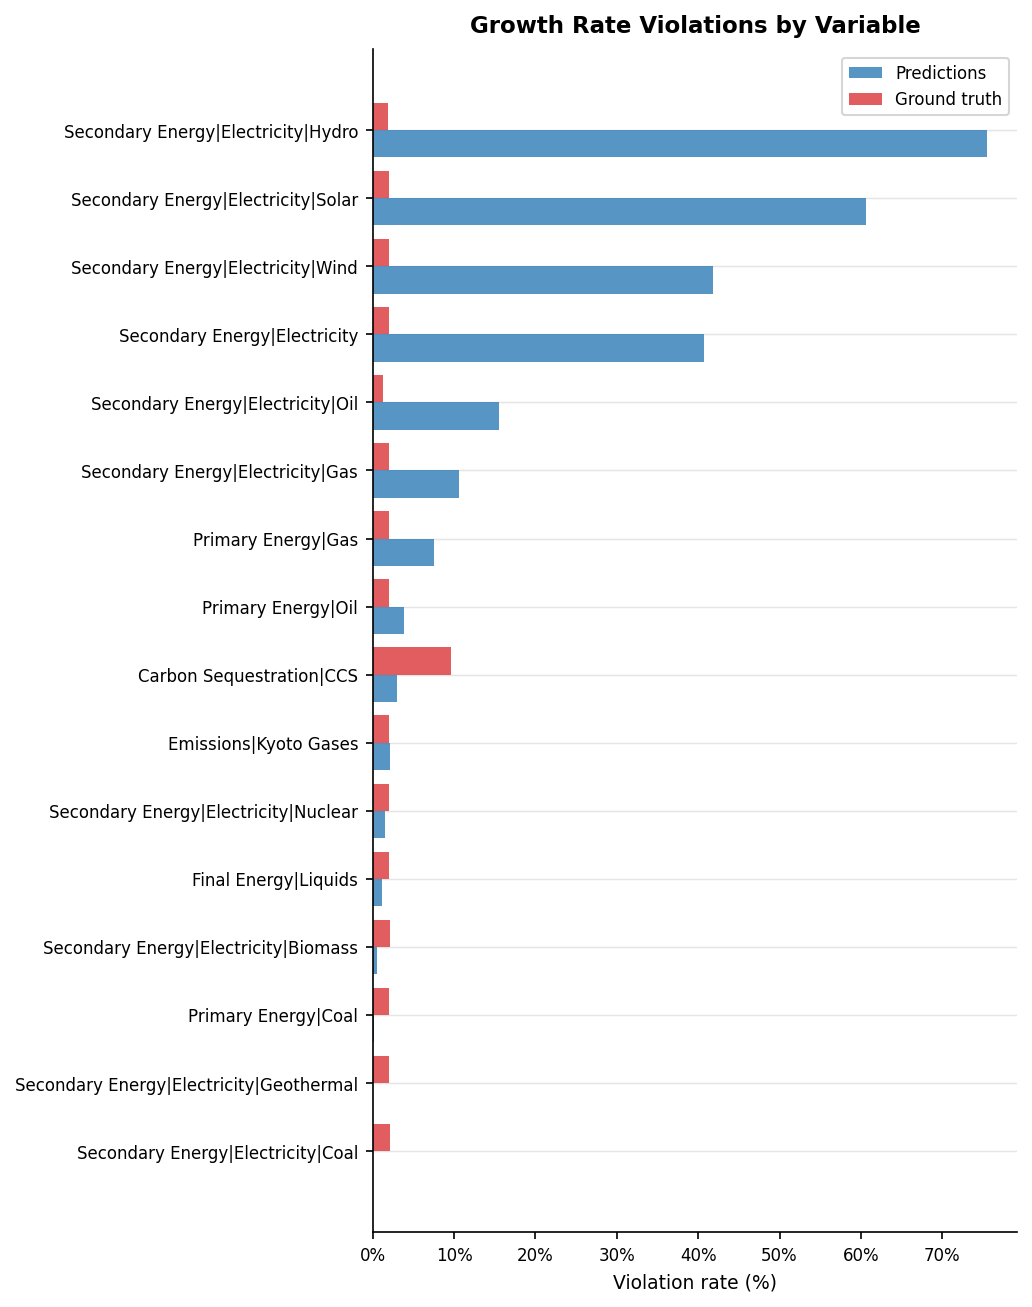
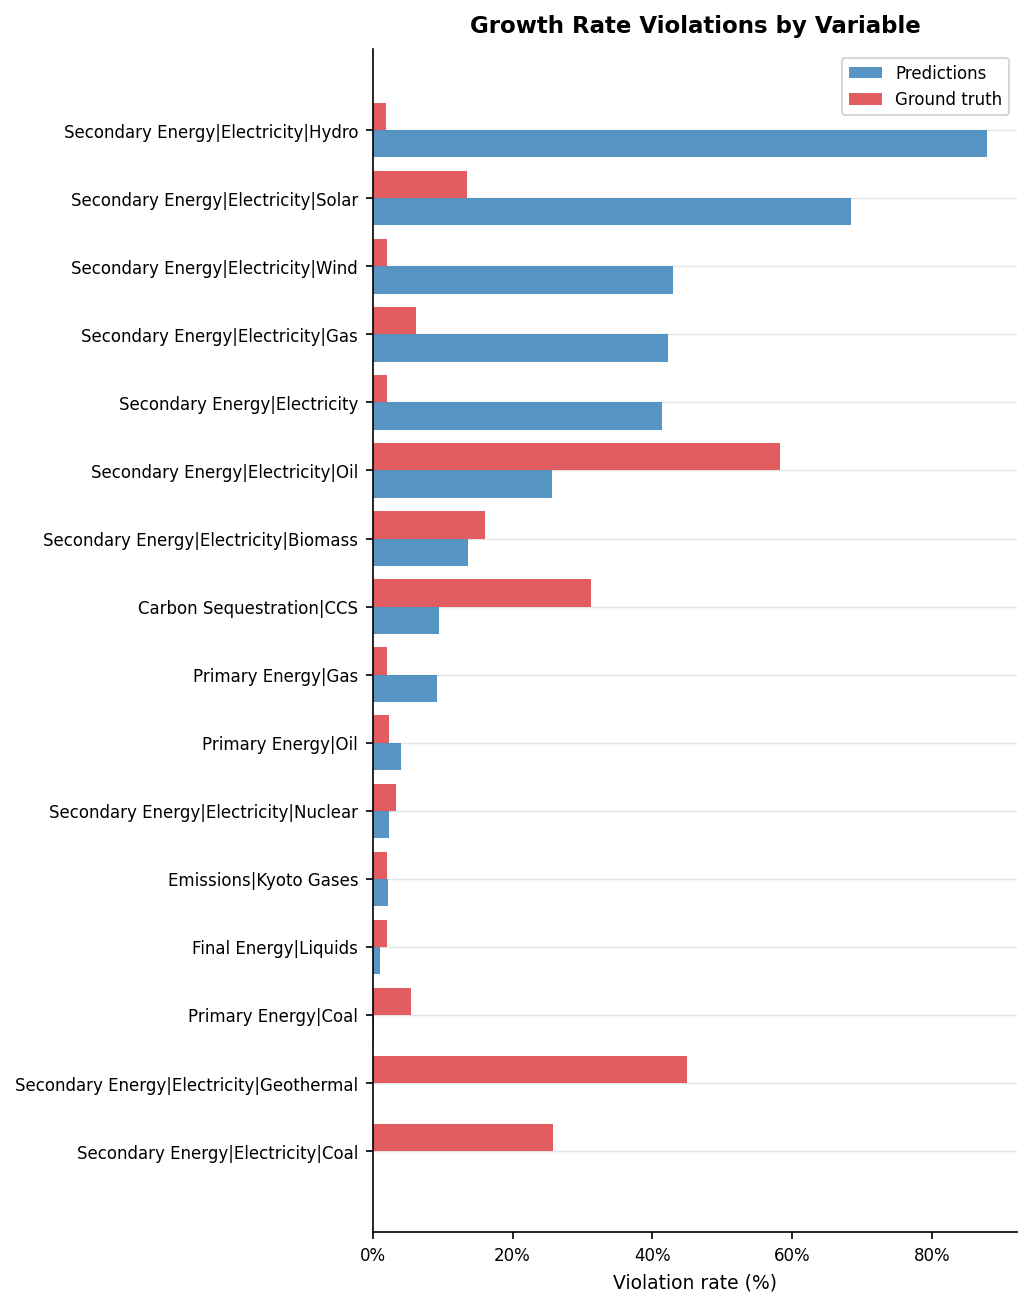
fixing issue of variables having near 0 values and exploding relative comparisons

diff --git a/make_val_report.py b/make_val_report.py
@@ -98,7 +98,15 @@ def _adapt_sum_results(df: pd.DataFrame, threshold: float = 0.012) -> tuple:
     if df is None or df.empty:
         return None, None
     df = df.copy()
-    df["abs_error"] = (df["Residual"] / df["Parent_Value"].abs()).fillna(0)
+    # Rows where |parent| < abs_floor are excluded from the mean (set to NaN),
+    # matching the old behaviour — dividing by a near-zero denominator produces
+    # meaningless huge relative errors.
+    abs_floor = 1.0
+    df["abs_error"] = np.where(
+        df["Parent_Value"].abs() < abs_floor,
+        np.nan,
+        df["Residual"] / df["Parent_Value"].abs(),
+    )
     df["passed_timestep"] = df["Status"] == "PASS"
     df["parent_variable"] = df["Parent"]
     df["total"] = df["Parent_Value"]
@@ -153,8 +161,17 @@ def _adapt_regional(df: pd.DataFrame):
     if df is None or df.empty:
         return None
     df = df.copy()
+    # Exclude SKIP rows (World near zero) and near-zero World values from
+    # relative error calculations — dividing by a near-zero denominator produces
+    # meaningless huge percentages (e.g. CO2 crossing zero in net-zero scenarios).
+    abs_floor = 1.0
+    df = df[df["Status"] != "SKIP"].copy()
     df["passed"] = df["Status"] == "PASS"
-    df["rel_error"] = (df["Residual"] / df["World_Value"].abs()).fillna(0)
+    df["rel_error"] = np.where(
+        df["World_Value"].abs() < abs_floor,
+        np.nan,
+        df["Residual"] / df["World_Value"].abs(),
+    )
     df["grouping"] = df["Grouping"]
     IDX = ["Model", "Scenario", "Region", "Scenario_Category"]
     sc = (

diff --git a/checks/check_plausibility.py b/checks/check_plausibility.py
@@ -42,11 +42,18 @@ def compute_growth_rates(long: pd.DataFrame) -> pd.DataFrame:
     # Drop first row of each group (no previous value)
     df = df.dropna(subset=["prev_value", "prev_year"])
 
-    # Compute growth rate
-    df["Growth_Rate"] = (df["Value"] - df["prev_value"]) / df["prev_value"].abs()
-    # Where denominator is zero, set to inf (flagged as violation)
-    df.loc[df["prev_value"] == 0, "Growth_Rate"] = np.where(
-        df.loc[df["prev_value"] == 0, "Value"] != 0, np.inf, 0.0
+    # Compute growth rate.
+    # Where |prev_value| < abs_floor the denominator is too small for a meaningful
+    # relative rate — set to NaN so the transition is excluded from both bound
+    # derivation and violation flagging.  This avoids spurious 10,000x+ growth
+    # rates from variables that start near zero (e.g. CCS, Geothermal, Oil in
+    # early years).  The == 0 case is a subset of this.
+    abs_floor = 1.0
+    near_zero = df["prev_value"].abs() < abs_floor
+    df["Growth_Rate"] = np.where(
+        near_zero,
+        np.nan,
+        (df["Value"] - df["prev_value"]) / df["prev_value"].abs(),
     )
 
     return df[IDX + ["Variable", "prev_year", "Year", "Growth_Rate"]].rename(

diff --git a/checks/regional_consistency.py b/checks/regional_consistency.py
@@ -64,11 +64,24 @@ def check_grouping(
     if not present_regions:
         return pd.DataFrame()
 
+    # Only check rows where ALL regions in the grouping have data.
+    # Partial sums (missing regions treated as 0) produce meaningless relative errors.
+    complete = pivot[present_regions].notna().all(axis=1)
+    pivot = pivot[complete].copy()
+    if pivot.empty:
+        return pd.DataFrame()
+
     pivot["regional_sum"] = pivot[present_regions].sum(axis=1)
     pivot["world_value"]  = pivot["World"]
     pivot["residual"]     = (pivot["world_value"] - pivot["regional_sum"]).abs()
+    # Also skip rows where |World| < abs_floor — relative tolerance is meaningless
+    # when World crosses zero (e.g. CO2 in near-net-zero scenarios).
     pivot["tolerance"]    = (pivot["world_value"].abs() * threshold).clip(lower=abs_floor)
-    pivot["Status"]       = np.where(pivot["residual"] <= pivot["tolerance"], "PASS", "FAIL")
+    pivot["Status"]       = np.where(
+        pivot["world_value"].abs() < abs_floor,
+        "SKIP",
+        np.where(pivot["residual"] <= pivot["tolerance"], "PASS", "FAIL")
+    )
     pivot["Grouping"]     = grouping_name
     pivot["Region"]       = "World"
 

diff --git a/reports/xgb_04/report.md b/reports/xgb_04/report.md
@@ -1,7 +1,7 @@
 # Validation Report: xgb_04
 
 **Run ID:** `xgb_04`
-**Generated:** 2026-05-05 15:34
+**Generated:** 2026-05-05 15:45
 **Results:** `results/xgb_04/`
 
 ---
@@ -12,7 +12,7 @@
 | --- | --- | --- | --- |
 | Hierarchy Sum Check | Scenario-region pass rate | 1.3% | 66.4% |
 |  | Mean relative error | 6.538% | 1.365% |
-| Growth Rate Plausibility | Timestep violation rate | 3.4% | 1.9% |
+| Growth Rate Plausibility | Timestep violation rate | 12.6% | 16.9% |
 | Regional Consistency | Scenario × variable pass rate | 0.0% | 0.0% |
 | Physical Bounds Check | Timestep violation rate | 3.72% | 1.59% |
 | Inter-variable Correlations | Mean \|Δr²\| vs ground truth | 0.0277 | 0.0000 (reference) |
@@ -57,10 +57,10 @@ _For each predicted trajectory, checks that period-on-period growth rates
 fall within empirically-derived bounds from the ground truth data._
 
 **Total timesteps evaluated:** 419,995  
-**Violations:** 14,291 (3.40%)  
+**Violations:** 52,953 (12.61%)  
 
-**Ground truth — violation rate:** 1.94%  
-_(+1.46pp difference: predictions vs ground truth)_
+**Ground truth — violation rate:** 16.89%  
+_(-4.29pp difference: predictions vs ground truth)_
 
 ### Violation Rate by Variable
 
@@ -70,15 +70,15 @@ _(+1.46pp difference: predictions vs ground truth)_
 
 | Category | Timesteps | Violations | Violation rate (%) |
 | --- | --- | --- | --- |
-| C6 | 42883 | 1613 | 3.7600 |
-| C4 | 60743 | 2262 | 3.7200 |
-| C2 | 48716 | 1775 | 3.6400 |
-| C3 | 123215 | 4339 | 3.5200 |
-| C1 | 29697 | 1035 | 3.4900 |
-| C5 | 66880 | 2117 | 3.1700 |
-| C7 | 34694 | 1017 | 2.9300 |
-| C8 | 3097 | 88 | 2.8400 |
-| no-climate-assessment | 10070 | 45 | 0.4500 |
+| C2 | 48716 | 6770 | 13.9000 |
+| C1 | 29697 | 4122 | 13.8800 |
+| C3 | 123215 | 16981 | 13.7800 |
+| C6 | 42883 | 5659 | 13.2000 |
+| C4 | 60743 | 7832 | 12.8900 |
+| C5 | 66880 | 7305 | 10.9200 |
+| C7 | 34694 | 3524 | 10.1600 |
+| C8 | 3097 | 280 | 9.0400 |
+| no-climate-assessment | 10070 | 480 | 4.7700 |
 
 ---
 
@@ -91,17 +91,17 @@ _Checks that predicted World values equal the sum of predicted subregion values
 
 | Grouping | Total | Passed | Pass rate (%) | Mean error (%) | Max error (%) |
 | --- | --- | --- | --- | --- | --- |
-| R10 | 8911 | 0 | 0.0000 | 27.6770 | 121992.0173 |
-| R5 | 9861 | 0 | 0.0000 | 23.1956 | 27922.4781 |
-| R6 | 4427 | 0 | 0.0000 | 52.3002 | 74162.6795 |
+| R10 | 8911 | 0 | 0.0000 | 102.4671 | 72430.5507 |
+| R5 | 9861 | 0 | 0.0000 | 97.3127 | 26572.6901 |
+| R6 | 4427 | 0 | 0.0000 | 100.6412 | 74162.6795 |
 
 ### Pass Rates by Regional Grouping — Ground Truth
 
 | Grouping | Total | Passed | Pass rate (%) | Mean error (%) | Max error (%) |
 | --- | --- | --- | --- | --- | --- |
-| R10 | 8911 | 0 | 0.0000 | 7207.5346 | 583561176.9541 |
-| R5 | 9861 | 0 | 0.0000 | 41443.5449 | 5453563053.7464 |
-| R6 | 4427 | 0 | 0.0000 | 316.4751 | 16519328.4625 |
+| R10 | 8911 | 0 | 0.0000 | 103.8467 | 31624.4313 |
+| R5 | 9861 | 0 | 0.0000 | 124.1467 | 242375.6550 |
+| R6 | 4427 | 0 | 0.0000 | 105.5932 | 120036.1996 |
 
 ### Pass Rate by Variable
 

diff --git a/reports/li_vae_01/report.md b/reports/li_vae_01/report.md
@@ -1,7 +1,7 @@
 # Validation Report: li_vae_01
 
 **Run ID:** `li_vae_01`
-**Generated:** 2026-05-05 15:34
+**Generated:** 2026-05-05 15:45
 **Results:** `results/li_vae_01/`
 
 ---
@@ -10,9 +10,9 @@
 
 | Check | Metric | Predictions | Ground Truth |
 | --- | --- | --- | --- |
-| Hierarchy Sum Check | Scenario-region pass rate | 0.0% | 59.0% |
-|  | Mean relative error | 2085.076% | 2080985791.706% |
-| Growth Rate Plausibility | Timestep violation rate | 16.5% | 2.4% |
+| Hierarchy Sum Check | Scenario-region pass rate | 0.0% | 58.9% |
+|  | Mean relative error | 2019.856% | 10.095% |
+| Growth Rate Plausibility | Timestep violation rate | 21.9% | 11.5% |
 | Physical Bounds Check | Timestep violation rate | 24.01% | 1.42% |
 | Inter-variable Correlations | Mean \|Δr²\| vs ground truth | 0.1383 | 0.0000 (reference) |
 
@@ -28,7 +28,7 @@ rate quantifies how much the model violates IAM accounting identities._
 
 | Parent Variable | Scenario-regions | Pass rate (%) | Mean error (%) | Max error (%) |
 | --- | --- | --- | --- | --- |
-| Secondary Energy\|Electricity | 30000 | 0.0000 | 2085.0765 | 152384.9984 |
+| Secondary Energy\|Electricity | 30000 | 0.0000 | 2019.8564 | 44942.0074 |
 
 ### Error Distribution
 
@@ -42,11 +42,11 @@ rate quantifies how much the model violates IAM accounting identities._
 
 | Percentile | Predictions (%) | Ground truth (%) |
 | --- | --- | --- |
-| p50 | 1496.2905 | 0.8424 |
-| p75 | 2260.8794 | 1.8137 |
-| p90 | 3887.7720 | 3.3658 |
-| p95 | 5084.0905 | 5.8445 |
-| p99 | 9250.2007 | 11.4583 |
+| p50 | 1495.9180 | 0.8424 |
+| p75 | 2251.1809 | 1.8139 |
+| p90 | 3837.0541 | 3.3668 |
+| p95 | 5033.2191 | 5.8508 |
+| p99 | 8124.1684 | 11.4583 |
 
 ---
 
@@ -56,10 +56,10 @@ _For each predicted trajectory, checks that period-on-period growth rates
 fall within empirically-derived bounds from the ground truth data._
 
 **Total timesteps evaluated:** 3,840,000  
-**Violations:** 635,187 (16.54%)  
+**Violations:** 841,261 (21.91%)  
 
-**Ground truth — violation rate:** 2.37%  
-_(+14.17pp difference: predictions vs ground truth)_
+**Ground truth — violation rate:** 11.54%  
+_(+10.37pp difference: predictions vs ground truth)_
 
 ### Violation Rate by Variable
 
@@ -69,9 +69,9 @@ _(+14.17pp difference: predictions vs ground truth)_
 
 | Category | Timesteps | Violations | Violation rate (%) |
 | --- | --- | --- | --- |
-| C1234 | 1280000 | 246522 | 19.2600 |
-| C56 | 1280000 | 210494 | 16.4400 |
-| C78 | 1280000 | 178171 | 13.9200 |
+| C1234 | 1280000 | 301610 | 23.5600 |
+| C56 | 1280000 | 278908 | 21.7900 |
+| C78 | 1280000 | 260743 | 20.3700 |
 
 ---
 
